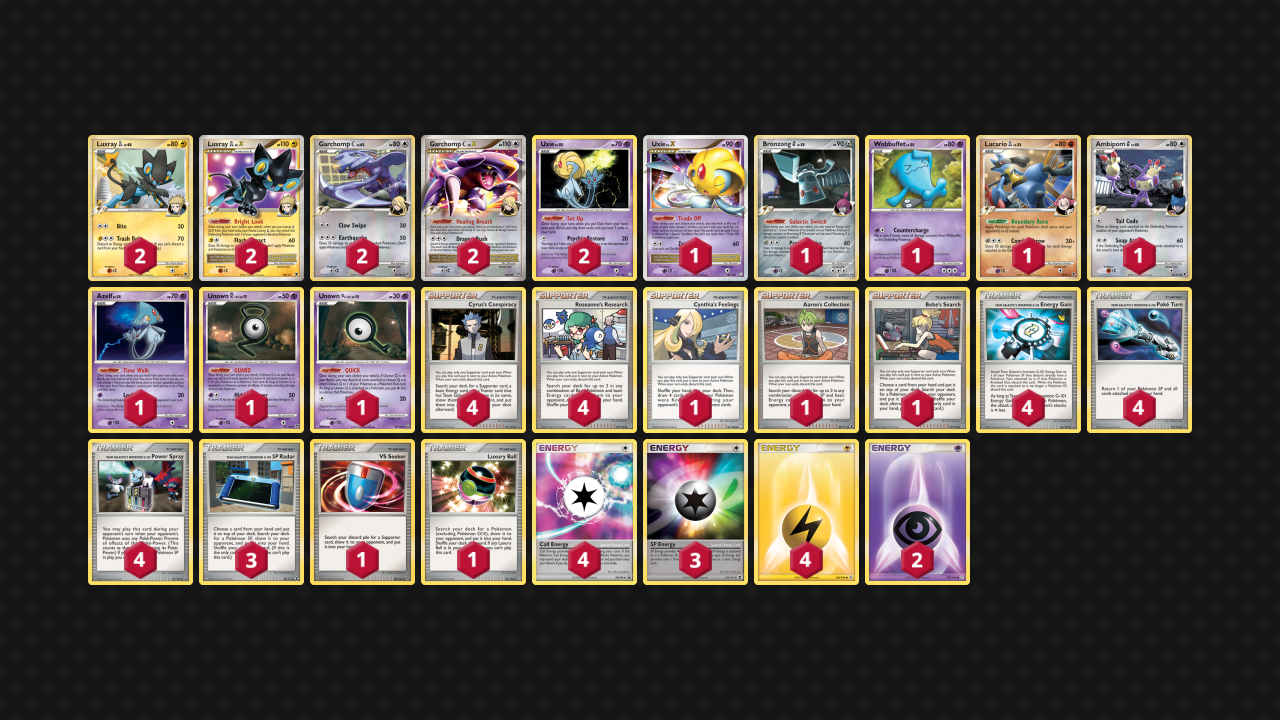
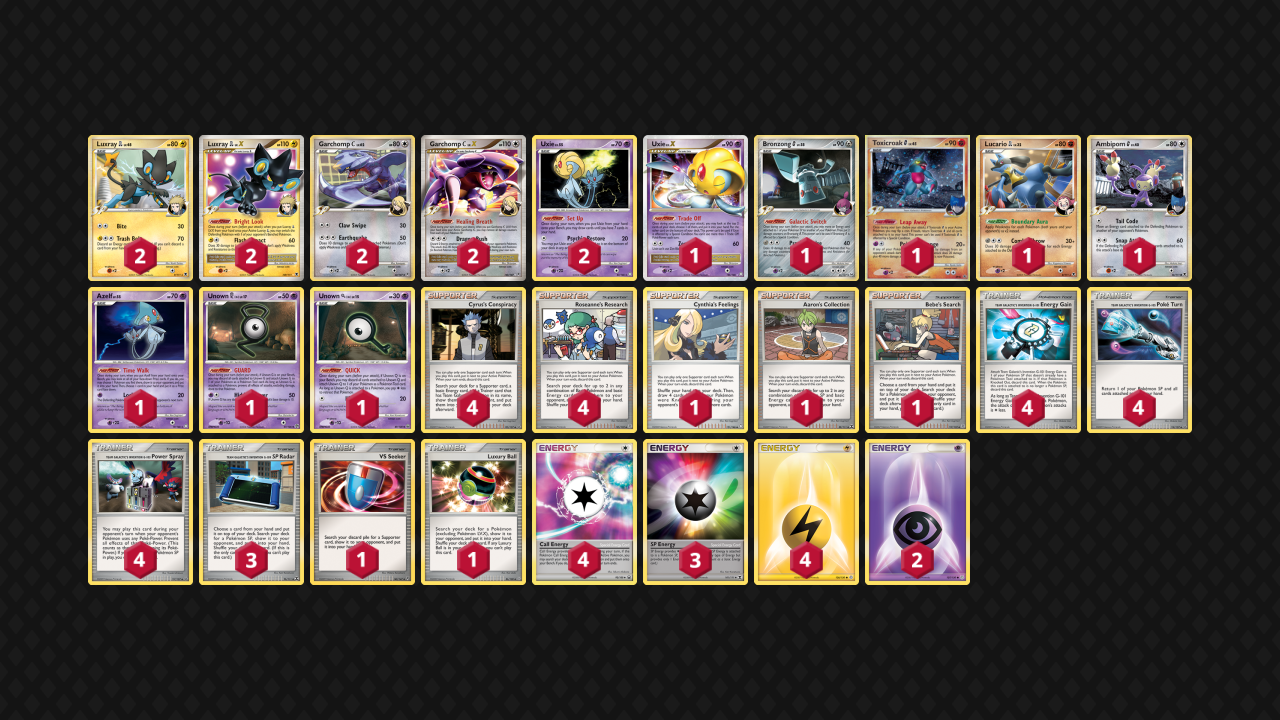
Add LuxChomp 2010 to kitchen

Changed region(s): [[0.6562, 0.1833, 0.7812, 0.3972]]

diff --git a/_decks/2010-luxchomp.md b/_decks/2010-luxchomp.md
@@ -1,0 +1,147 @@
+---
+title: LuxChomp (2010)
+layout: deck
+in_progress: true
+era: 2010
+description: Another James G list, making use of multiple techs in a classic LuxChomp list
+links:
+cards:
+  pokemon:
+    - name: Garchomp C
+      set: SV
+      number: 60
+      quantity: 3
+      missing_count: 2
+    - name: Garchomp C Lv.X
+      set: SV
+      number: 145
+      quantity: 1
+    - name: Luxray GL
+      set: RR
+      number: 9
+      quantity: 2
+      missing_count: 2
+    - name: Luxray GL Lv.X
+      set: RR
+      number: 109
+      quantity: 1
+      missing_count: 1
+    - name: Uxie
+      set: LA
+      number: 43
+      quantity: 3
+    - name: Uxie Lv.X
+      set: LA
+      number: 146
+      quantity: 1
+      missing_count: 1
+    - name: Crobat G
+      set: PL
+      number: 47
+      quantity: 1
+    - name: Bronzong G
+      set: PL
+      number: 41
+      quantity: 1
+    - name: Toxicroak G
+      set: DPP
+      number: 41
+      quantity: 1
+    - name: Ambipom G
+      set: RR
+      number: 56
+      quantity: 1
+    - name: Lucario GL
+      set: RR
+      number: 8
+      quantity: 1
+    - name: Roserade GL
+      set: RR
+      number: 12
+      quantity: 1
+    - name: Drifblim FB
+      set: SV
+      number: 3
+      quantity: 1
+      missing_count: 1
+    - name: Chatot
+      set: MD
+      number: 55
+      quantity: 1
+    - name: Azelf
+      set: LA
+      number: 19
+      quantity: 1
+    - name: Unown G
+      set: GE
+      number: 57
+      quantity: 1
+    - name: Unown Q
+      set: MD
+      number: 49
+      quantity: 1
+  trainers:
+    - name: Cyrus's Conspiracy
+      set: PL
+      number: 105
+      quantity: 4
+    - name: Pokémon Collector
+      set: HS
+      number: 97
+      quantity: 2
+      missing_count: 2
+    - name: Bebe's Search
+      set: SW
+      number: 119
+      quantity: 2
+    - name: Pokémon Collector
+      set: HS
+      number: 101
+      quantity: 1
+    - name: Judge
+      set: UL
+      number: 78
+      quantity: 1
+    - name: Aaron's Collection
+      set: RR
+      number: 88
+      quantity: 1
+    - name: Poke Turn
+      set: PL
+      number: 118
+      quantity: 4
+      missing_count: 4
+    - name: Power Spray
+      set: PL
+      number: 117
+      quantity: 4
+    - name: Energy Gain
+      set: PL
+      number: 116
+      quantity: 3
+    - name: SP Radar
+      set: RR
+      number: 96
+      quantity: 2
+    - name: Premier Ball
+      set: GE
+      number: 101
+      quantity: 2
+  energy:
+    - name: Call Energy
+      set: MD
+      number: 92
+      quantity: 4
+    - name: Double Colorless Energy
+      set: HS
+      number: 103
+      quantity: 4
+    - name: Lightning Energy
+      set: DP
+      number: 126
+      quantity: 2
+    - name: Psychic Energy
+      set: DP
+      number: 127
+      quantity: 2
+---

diff --git a/_decks/2009-luxchomp.md b/_decks/2009-luxchomp.md
@@ -1,5 +1,5 @@
 ---
-title: LuxChomp
+title: LuxChomp (2009)
 layout: deck
 era: 2009
 description: Jason Klaczynski List
@@ -37,7 +37,7 @@ cards:
       number: 41
       quantity: 1
     - name: Toxicroak G PR
-      set: DP
+      set: DPP
       number: 41
       quantity: 1
     - name: Lucario GL
